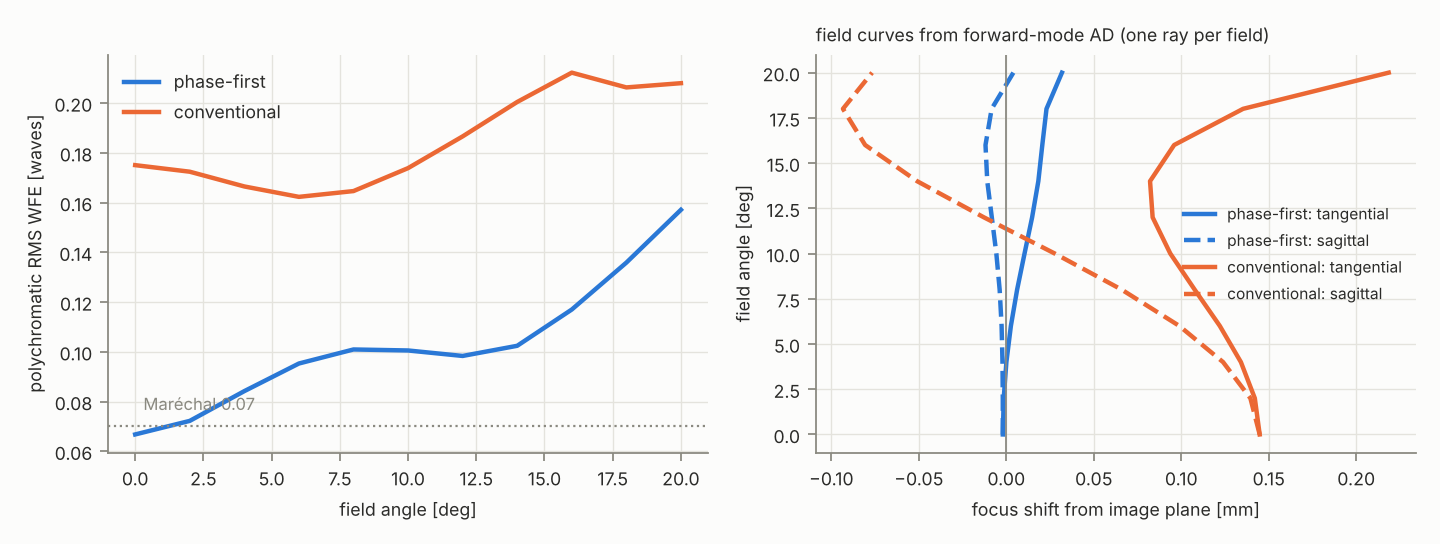
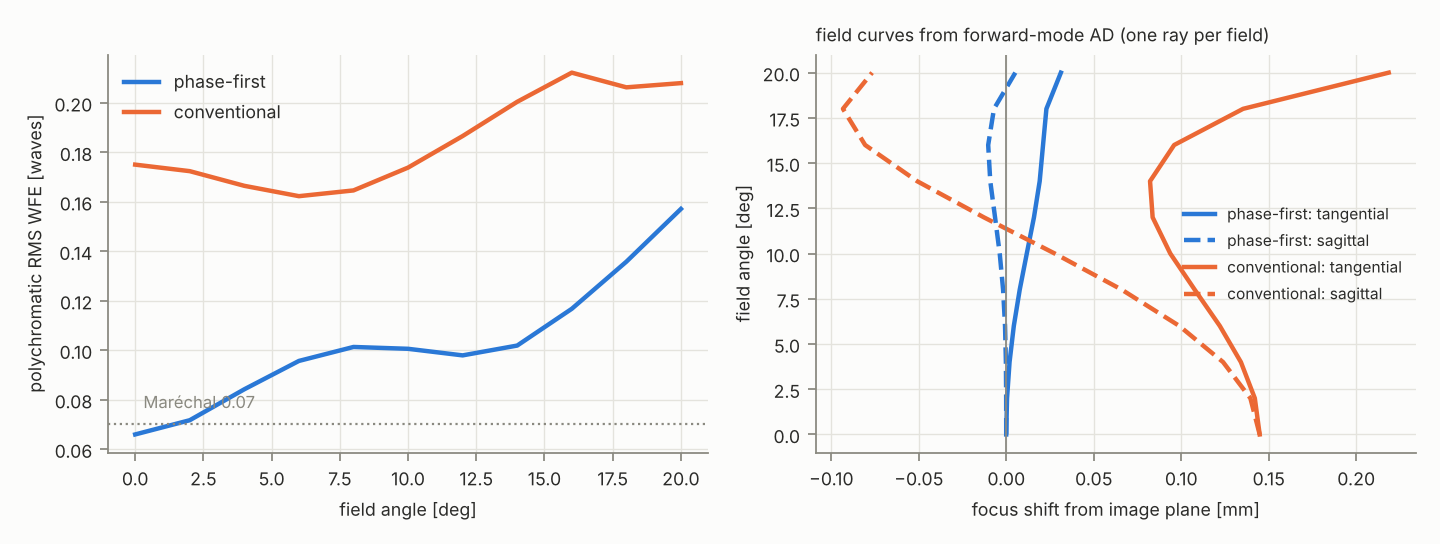
Regenerate example outputs with the faster code; README performance section
Claude-Session: https://claude.ai/code/session_011PUinKqcRNFAgLzKuMkq9V

diff --git a/README.md b/README.md
@@ -91,10 +91,10 @@ no merit function sampled.
 
 | design | glasses | mean RMS WFE [waves] | max RMS WFE [waves] | mean RMS spot [µm] | max distortion | wall time |
 |---|---|---|---|---|---|---|
-| phase-first, aspheric | N-SF66 / N-PK51 / SF56A | **0.102** | **0.157** | 2.9 | 0.48% | 1184 s |
-| conventional, aspheric | N-LASF41 / N-SF5 / N-LASF44 | 0.184 | 0.213 | 4.5 | 0.24% | 153 s |
-| phase-first, spherical (asphere fade) | N-LASF41 / SF56A / N-LASF31A | **0.281** | **0.372** | 5.8 | 0.71% | 243 s* |
-| conventional, spherical | N-LASF41 / N-SF6 / N-LASF31A | 0.311 | 0.431 | 5.9 | 0.80% | 73 s |
+| phase-first, aspheric | N-SF66 / N-PK51 / SF56A | **0.102** | **0.157** | 2.9 | 0.51% | 84 s |
+| conventional, aspheric | N-LASF41 / N-SF5 / N-LASF44 | 0.184 | 0.213 | 4.5 | 0.24% | 31 s |
+| phase-first, spherical (asphere fade) | N-LASF41 / SF56A / N-LASF31A | **0.281** | **0.372** | 5.8 | 0.71% | 22 s* |
+| conventional, spherical | N-LASF41 / N-SF6 / N-LASF31A | 0.311 | 0.431 | 5.9 | 0.80% | 9 s |
 
 Both aspheric designs get a stop shift on the glass system (see *Stop shift*); neither
 spherical design does. The aspheric phase-first design comes from the `−++`
@@ -109,7 +109,8 @@ curvature in the morph (see *Diagnostics*), real catalog glass with a
 catalog-derived dispersion model, gradual glass snapping (see *Real glasses*) and a
 stop shift on the glass system account for the difference.
 
-\* on top of the aspheric run. Times are on 4 CPU cores and include JIT compilation.
+\* on top of the aspheric run. Times are on 4 CPU cores with a warm JAX compilation
+cache (see *Performance*); the whole example takes 280 s from a cold cache.
 Full prescriptions are in [`examples/output/results.md`](examples/output/results.md).
 
 ![performance, spherical](examples/output/performance_spherical.png)
@@ -392,6 +393,39 @@ improve the final designs (0.106 / 0.161 aspheric and 0.307 / 0.394 spherical, v
 off-by-default option (`bending_hops=True`): insurance against a bad basin, not a gain
 when the morph already did well.
 
+## Performance
+
+Profiling one architecture path of the aspheric pipeline (236 s originally) showed
+that the optimizer's numerics were only about 19% of the time: 42% was XLA
+compilation and 39% was Python-side overhead (unjitted summaries, re-tracing). The
+algorithm was not the bottleneck, so the gains come from the implementation:
+
+| change | effect |
+|---|---|
+| implicit differentiation of chief-ray aiming (`custom_jvp`) instead of differentiating through Newton | Jacobian program several times smaller, compiles faster |
+| Newton loops (aiming, asphere intercepts) as `lax.fori_loop`, not unrolled | smaller programs, faster compiles |
+| jit-compiled summaries; compiled residual / Jacobian reused per layout (LRU, per-entry lock) | no re-tracing; bounded memory |
+| persistent JAX compilation cache (`~/.cache/novaoptics/jax`, `NOVAOPTICS_JAX_CACHE`) | second and later runs skip most compiles |
+| independent optimizations run in threads (`parallel.pmap`): architectures, snap candidates, stop positions, bending-hop alternatives, multi-starts | 1.7× with 2 threads, 2.1× with 4 (XLA releases the GIL) |
+
+One path: 236 s → 61.5 s; the full example: ~1700 s → 280 s cold, 179 s warm, with
+identical results. A Jacobian is now about 25 ms (34 parameters, ~3400 residuals) and
+Jacobians are about 60% of the remaining optimizer time.
+
+**Is Levenberg–Marquardt the right algorithm?** Yes for this problem: a few dozen
+parameters, thousands of residuals, an exact Jacobian from forward-mode AD, and a
+continuation that keeps every solve close to a minimum. LM with Marquardt damping
+converges in a handful of iterations per continuation step. Tried and reverted:
+Nielsen damping updates (final 0.112 vs 0.102 waves) and a looser stopping tolerance
+(1e-7: 0.108); both stop earlier along the morph and lose quality downstream.
+`vmap`-batching independent optimizations gave no speedup on the CPU (it may on a GPU);
+threads did.
+
+**C++ / AVX-512.** With compile time and overhead gone, a hand-written tracer with
+forward-mode dual numbers vectorized over rays could plausibly give another 2–3× on
+the Jacobians, at the cost of re-implementing the tracer, the asphere and aiming
+derivatives and the merit. That is deferred until the method has settled.
+
 ## Layout
 
 ```
@@ -418,13 +452,14 @@ tests/                       physics and gradient checks
 
 JAX runs on the CPU by default (set in `novaoptics/__init__.py`; set `JAX_PLATFORMS`
 to override). The optimization is many small, sequential, latency-bound steps, and on
-a GPU the example ran about 1.5× slower than on the CPU.
+a GPU the example ran about 1.5× slower than on the CPU. `NOVAOPTICS_THREADS` sets the
+number of worker threads (default: CPU count).
 
 ```bash
 python -m venv .venv && . .venv/bin/activate
 pip install -e ".[dev]"
 pytest
-python examples/design_triplet.py          # ~15-20 min on 4 CPU cores
+python examples/design_triplet.py          # ~5 min on 4 CPU cores (3 min with a warm cache)
 python examples/design_triplet.py --quick  # smoke test
 ```
 
@@ -432,8 +467,8 @@ python examples/design_triplet.py --quick  # smoke test
 
 * **Model scope.** Rotationally symmetric systems, object at infinity, spherical
   surfaces with optional even aspheres on rear surfaces. There is no vignetting,
-  ghost or tolerance analysis yet. Glass dispersion is a two-term Cauchy model from
-  `(n_d, V_d)`, and the catalog is a small built-in list of nominal values.
+  ghost or tolerance analysis yet. Glasses come from one AGF catalog (SCHOTT,
+  preferred only); refractiveindex.info data is not wired in yet.
 * **Pupil.** Chief-ray aiming is exact, but the pupil grid is a circle on the
   incoming beam, so pupil aberrations are not modelled.
 * **Phase-space ranking is blind to "sphere-friendliness".** The best aspheric

diff --git a/examples/output/results.md b/examples/output/results.md
@@ -1,22 +1,22 @@
 | design | mean RMS WFE [waves] | max RMS WFE [waves] | mean RMS spot [um] | max distortion | time [s] |
 |---|---|---|---|---|---|
-| phase-first, aspheric | 0.102 | 0.157 | 2.9 | 0.48% | 1184 |
-| phase-first, spherical (asphere fade) | 0.281 | 0.372 | 5.8 | 0.71% | 243 |
-| conventional, aspheric | 0.184 | 0.213 | 4.5 | 0.24% | 153 |
-| conventional, spherical | 0.311 | 0.431 | 5.9 | 0.80% | 73 |
+| phase-first, aspheric | 0.102 | 0.157 | 2.9 | 0.51% | 84 |
+| phase-first, spherical (asphere fade) | 0.281 | 0.372 | 5.8 | 0.71% | 22 |
+| conventional, aspheric | 0.184 | 0.213 | 4.5 | 0.24% | 31 |
+| conventional, spherical | 0.311 | 0.431 | 5.9 | 0.80% | 9 |
 
 All figures evaluated on 21 field points (0-20 deg) x 8x16 pupil samples, F/d/C, after optimization on 5 field points x 6x12 pupil samples.
 
 ## phase-first, aspheric
 
-architecture ranking in phase space: [('-++', 0.15509337534086154), ('+-+', 0.3577702056942067), ('+++', 0.36992796792157323), ('++-', 0.6555283692797309)]; chosen -++
+architecture ranking in phase space: [('-++', 0.15509337534145307), ('+-+', 0.35777020569012163), ('+++', 0.3699279679205777), ('++-', 0.6555283692802641)]; chosen -++
 
 ```
 item          R1 [mm]      R2 [mm]   t [mm]  glass                       gap->   max |W| [waves]
-E0           -127.697     596.618*    3.830  N-SF66                     10.324              0.00
-STOP                                                                     2.537
-E1             39.939     -28.858*    8.000  N-PK51                     33.934              0.00
-E2            -17.131     -44.971*    2.000  SF56A                       9.403              0.00
+E0           -136.977     457.159*    3.217  N-SF66                     10.146              0.00
+STOP                                                                     2.682
+E1             40.585     -28.572*    8.000  N-PK51                     34.134              0.00
+E2            -17.227     -45.673*    2.000  SF56A                       9.204              0.00
 * rear surface is an even asphere
 ```
 
